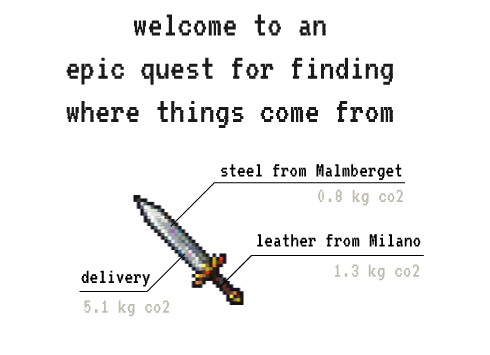
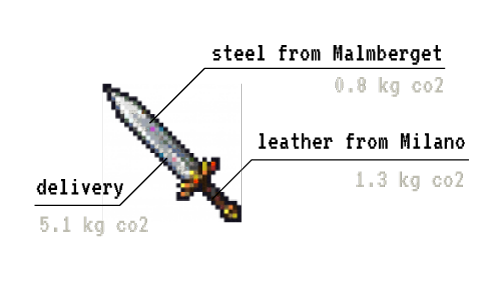
Changed design

diff --git a/media/css/main.css b/media/css/main.css
@@ -1,9 +1,6 @@
-
 body {
-  height: 100%;
   background-color: #000;
   color: #4fa;
-  text-shadow: 0.105em 0.125em 0.4em #186, 0.11em 0.11em 0.8em #4fa;
   font-family: 'VT323';
   /*font-family: 'Special Elite';*/
   font-size: 20px;
@@ -16,76 +13,76 @@ a:link, a:visited {
 h2 {
   margin: 0;
 }
-
-#device {
-  border: 2px outset #333;
-  width: 1024px;
-  height: 520px;
-  position: relative;
+header{
+	text-align:right;
+}
+#columnleft{
+	float:left;
+	width:500px;
 }
 
 #screen {
-  border: 2px inset grey;
-  top: 42px;
   min-width: 500px;
   min-height: 350px;
-  position: absolute;
+  position: relative;
 }
 
 #text {
-  position: absolute;
+  float: right;
   background-color: beige;
-  border-radius: 4px;
   color: #111;
   text-shadow: none;
-  left: 520px;
-  width: 496px;
-  height: 472px;
+  width: 470px;
+  height: 640px;
+  padding-left:15px;
+  padding-right:10px;
   overflow: auto;
 }
 
 #messages {
-  position: absolute;
+  float:right;
   right: 0;
-  top: 32px;
-  width: 280px;
-  height: 460px;
-  overflow: auto;
+  margin-top: 10px;
+  width: 240px;
+  height: 130px;
+  overflow: none;
+  text-align: right;
 }
 
 #quest {
-  border: 1px solid blue;
-  position: absolute;
-  right: 0;
   padding: 0px 4px 4px;
   width: 172px;
+	float:right;
+	width:150px;
+	height:50px;
+	text-align:right;
 }
 
 #quest, #quest a:link {
   color: blue;
-  text-shadow: 0.105em 0.125em 0.4em #55a, 0.11em 0.11em 0.8em #66f;
+
 }
 
 #wallet {
-  position: absolute;
+  float:left;
   bottom: 0;
-  width: 100%;
 }
 
 #co2 {
-  position: absolute;
-  right: 0;
-  bottom: 0;
-  height: 20px;
-  width: 160px;
-  border: 1px solid red;
-  padding: 0px 4px 4px;
-  text-align: right;
-  color: #f44;
-  text-shadow: 0.105em 0.125em 0.4em #f77, 0.11em 0.11em 0.8em #faa;
+  	float:right;
+	width:150px;
+	height:50px;
+	text-align:right;
+  	padding: 0px 4px 4px;
+  	text-align: right;
+  	color: #f44;
+  	
 }
 
 #inventory {
+ float:left;
+ width:250px;
+ height:250px;
   list-style: none;
   display: block;
   margin: 0;
@@ -95,12 +92,33 @@ h2 {
 #inventory li {
   display: block;
   float: left;
-  margin: 0;
+  height:70px;
+  width:70px;
+  margin-right:5px;
+  margin-bottom:5px;
   padding: 2px;
-  border: 1px solid orange;
-  color: #fc6;
-  text-shadow: 0.105em 0.125em 0.4em #820, 0.11em 0.11em 0.8em #fa4;
+  background-color: beige;
 }
 
+#container{
+	position:relative;
+	width:1010px;
+	margin-left:auto;
+	margin-right:auto;
+	
+}
+#location {
+	float:right;
+	width:500px;
+	height:50px;
+	text-align:right;
+}
+
+
+#wallet{
+	float:left;
+	width:250px;
+	height:250px;
+}
 #footer {
 }

diff --git a/media/index.html b/media/index.html
@@ -25,17 +25,19 @@
           <img src="/media/pictures/logo.png">
         </header>
         <section id="device" vocab="http://example.org/def/quest#">
+		<div id="columnleft">
           <div id="screen"></div>
-          <div id="messages"></div>
-          <div id="text"></div>
-          <div id="location"></div>
-          <div id="wallet"></div>
+		 <div id="location"></div>
+		<div id="wallet"></div>
           <div id="quest"></div>
           <div id="co2"></div>
+		  
+          <div id="messages"></div>
+		</div>
+		<div id="text"></div>
         </section>
         <div id="footer">
-            <img src="/media/pictures/sourcemap.jpg" width="50px"/>
-            <img src="/media/pictures/greenhackathon.png" width="50px"/>
+
         </div>
     </div>
 

diff --git a/data/world/north-america/boston_2.html b/data/world/north-america/boston_2.html
@@ -1,5 +1,6 @@
 <div typeof="Quest" about="#caponata">
   <h2 property="title">The Quest for the <span property="label">Caponata</span></h2>
+  <img rel="depiction" src="/media/pictures/boston.png" />
   <link rel="end" href="/world/north-america/boston_end" />
   <p>
 You peer through the window at Dino’s, trying to look casual. Inside, Dino piles a bunch of ingredients onto a table: a healthy pile of tomatoes, jars of sugar and salt, a bowl of chilies, onions, and a magnificent jewel of an aubergine. Hmm... But where do all these things come from? You wrack your brain for what little you know.

diff --git a/data/world/north-america/california.html b/data/world/north-america/california.html
@@ -1,8 +1,8 @@
 <div class="place">
   <h2 property="title">Florida</h2>
-  <img rel="depiction" src="/media/pictures/aubergine.png" />
+  <img rel="depiction" src="/media/pictures/garden.jpg" />
   <p>
     Standing by the beach by the sunset, the strangest of things appear in the sand:
-    <a class="item" data-co2="0.28" data-weight="0.4" href="#aubergine">Aubergine</a>.
+    <a class="item" data-co2="0.28" data-weight="0.4" href="#aubergine"><img src="/media/pictures/aubergine.png" title="Aubergine" height="55px"/></a>.
   </p>
 </div>

diff --git a/data/world/europe/napoli.html b/data/world/europe/napoli.html
@@ -1,6 +1,6 @@
 <div class="place">
   <h2 property="title">Napoli</h2>
-  <img rel="depiction" src="media/pictures/tomato.png" />
+  <img rel="depiction" src="media/pictures/garden.png" />
   <p>
     As if it is a miracle, there it appears, the
     <a class="item" data-co2="0.5" data-weight="0.5" href="#tomatosauce">Tomato Sauce</a>,

diff --git a/data/world/north-america/mexico.html b/data/world/north-america/mexico.html
@@ -1,6 +1,6 @@
 <div class="place">
   <h2 property="title">Mexico</h2>
-  <img rel="depiction" src="/media/pictures/chili.png" />
+  <img rel="depiction" src="/media/pictures/garden.jpg"/>
   <p>
     <a class="item" data-co2="0.009" data-weight="0.01" href="#chili">Hot chili flakes</a>!
   </p>

diff --git a/data/world/intro.html b/data/world/intro.html
@@ -2,4 +2,7 @@
   <div rel="depiction">
     <a class="path" href="/world/north-america/boston_1"><img src="media/pictures/intro.png" /></a>
   </div>
+	<h1>
+    Welcome to an epic quest for finding where things come from.
+  </h1>
 </div>

diff --git a/data/world/europe/map.html b/data/world/europe/map.html
@@ -1,4 +1,4 @@
-<div class="map">
+	<div class="map">
   <h2 property="title">Europe</h2>
   <p>
     Even if you don't find pepper in
